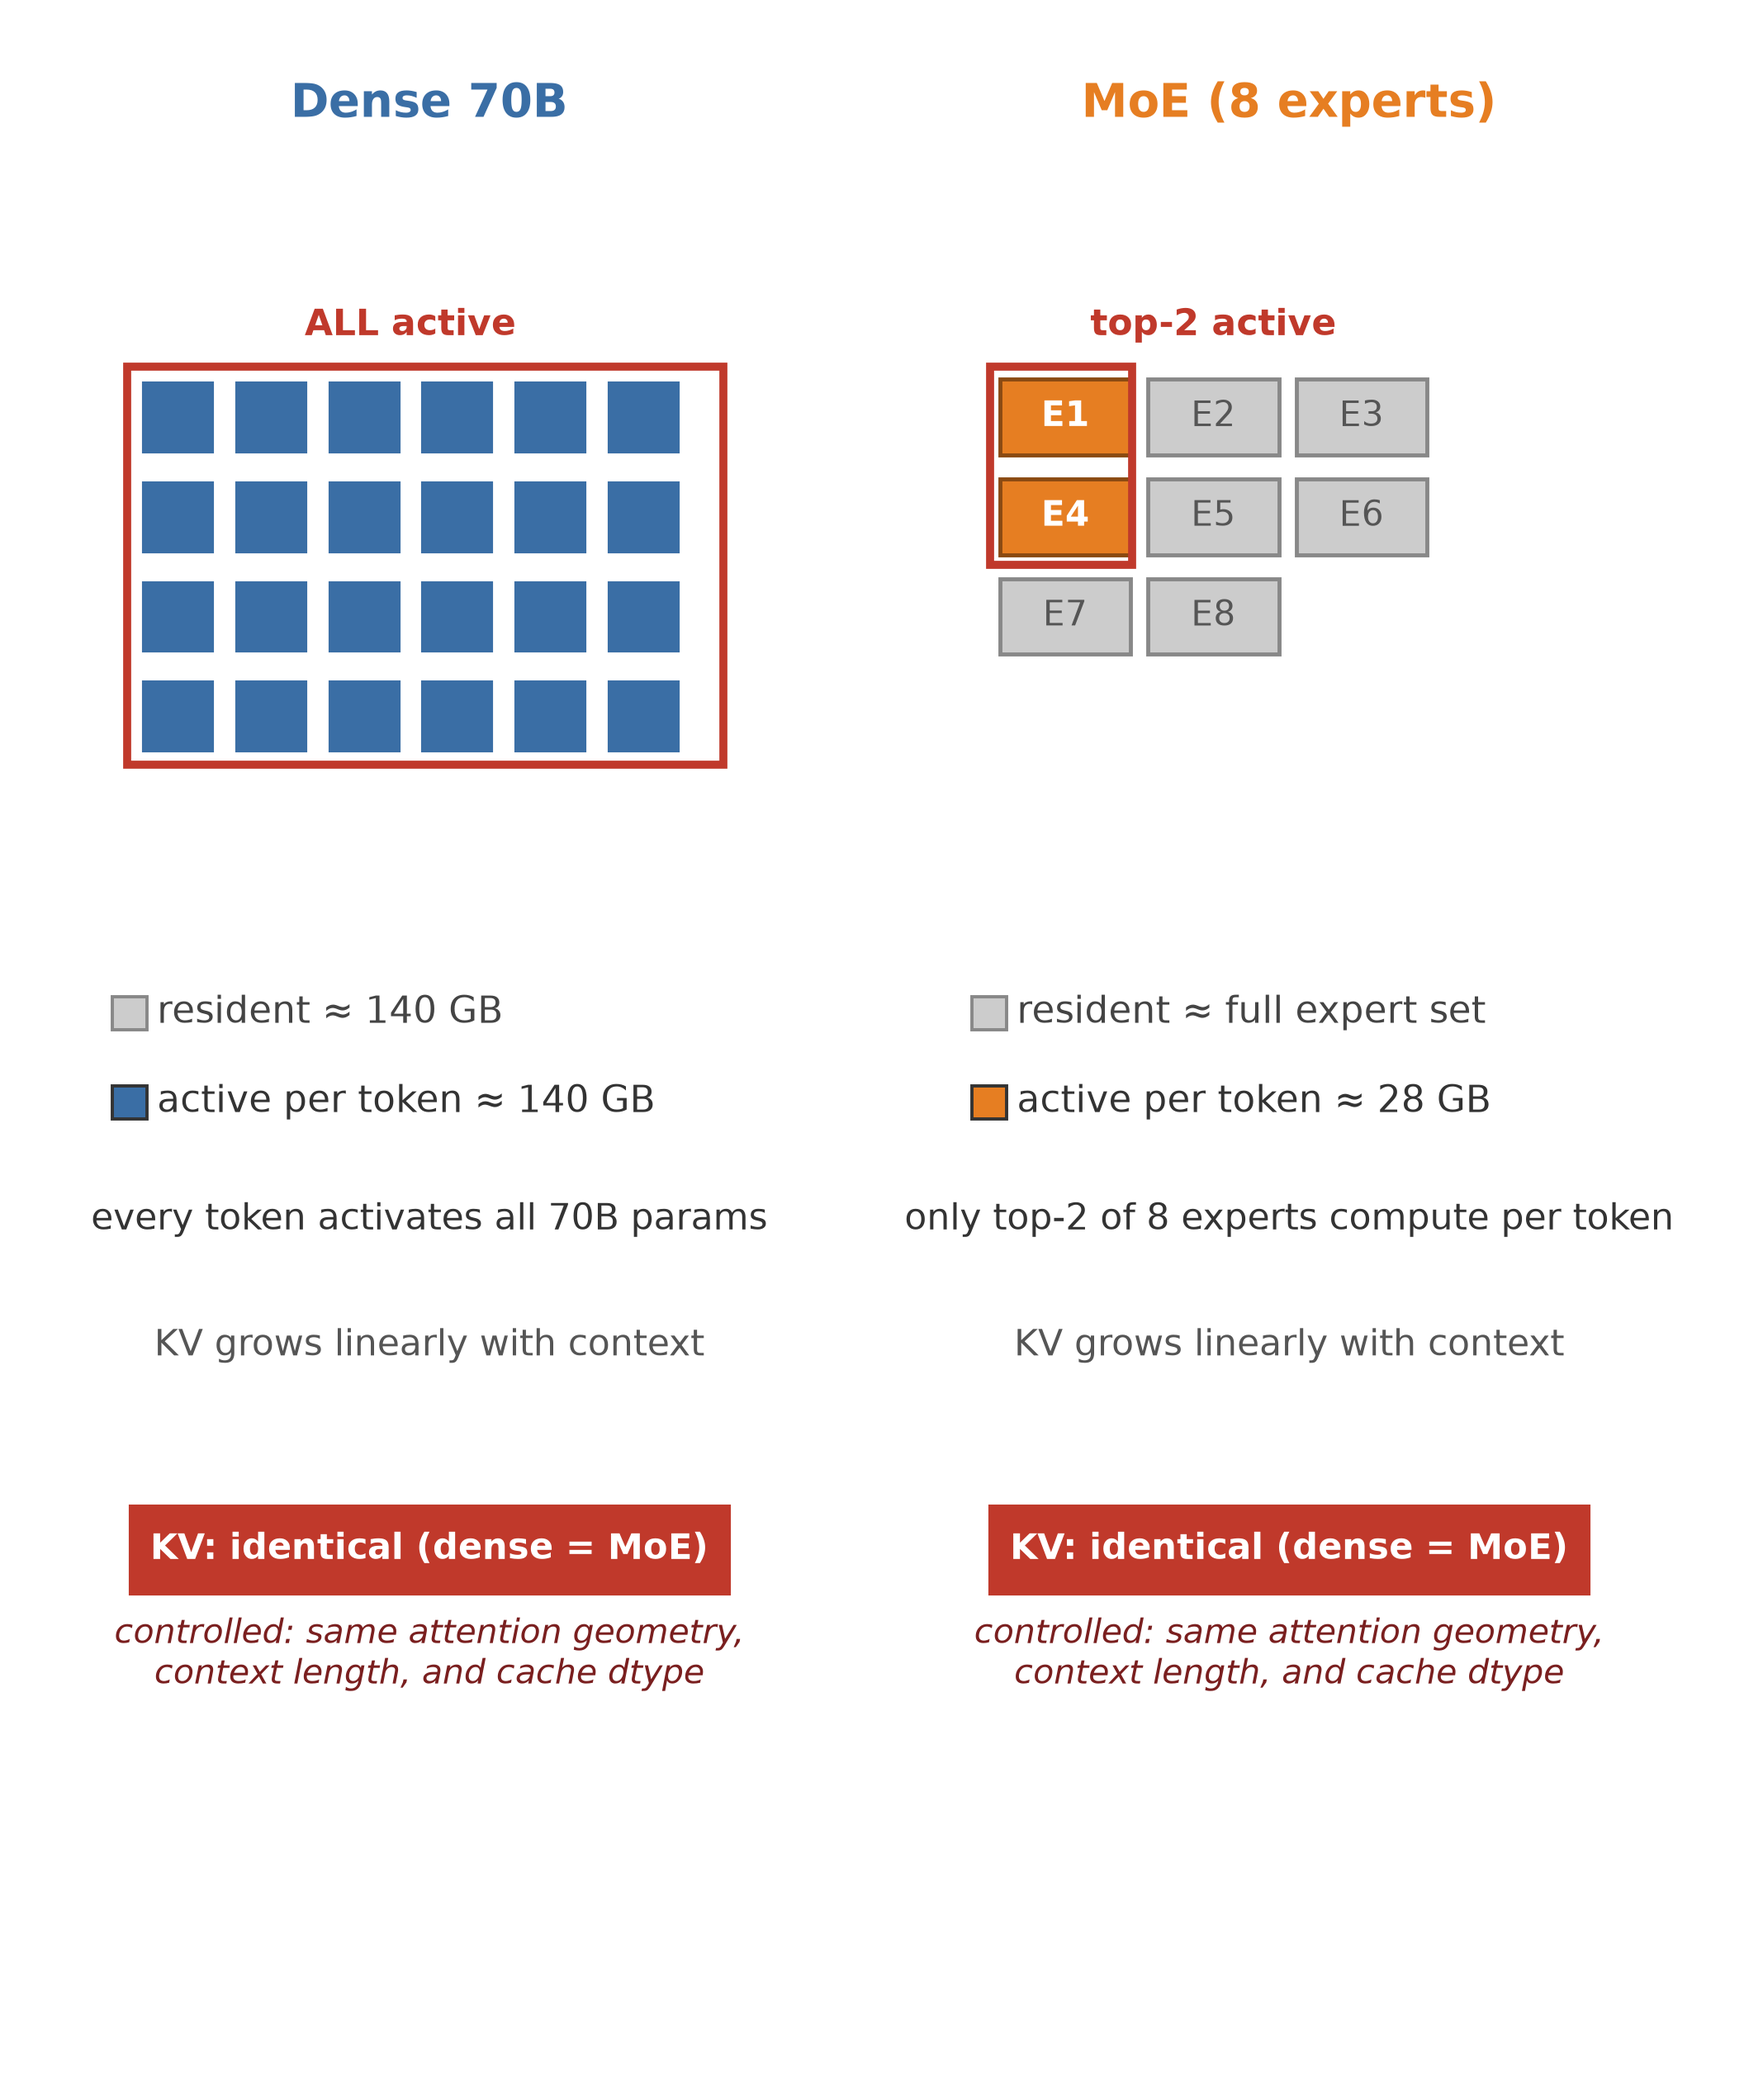
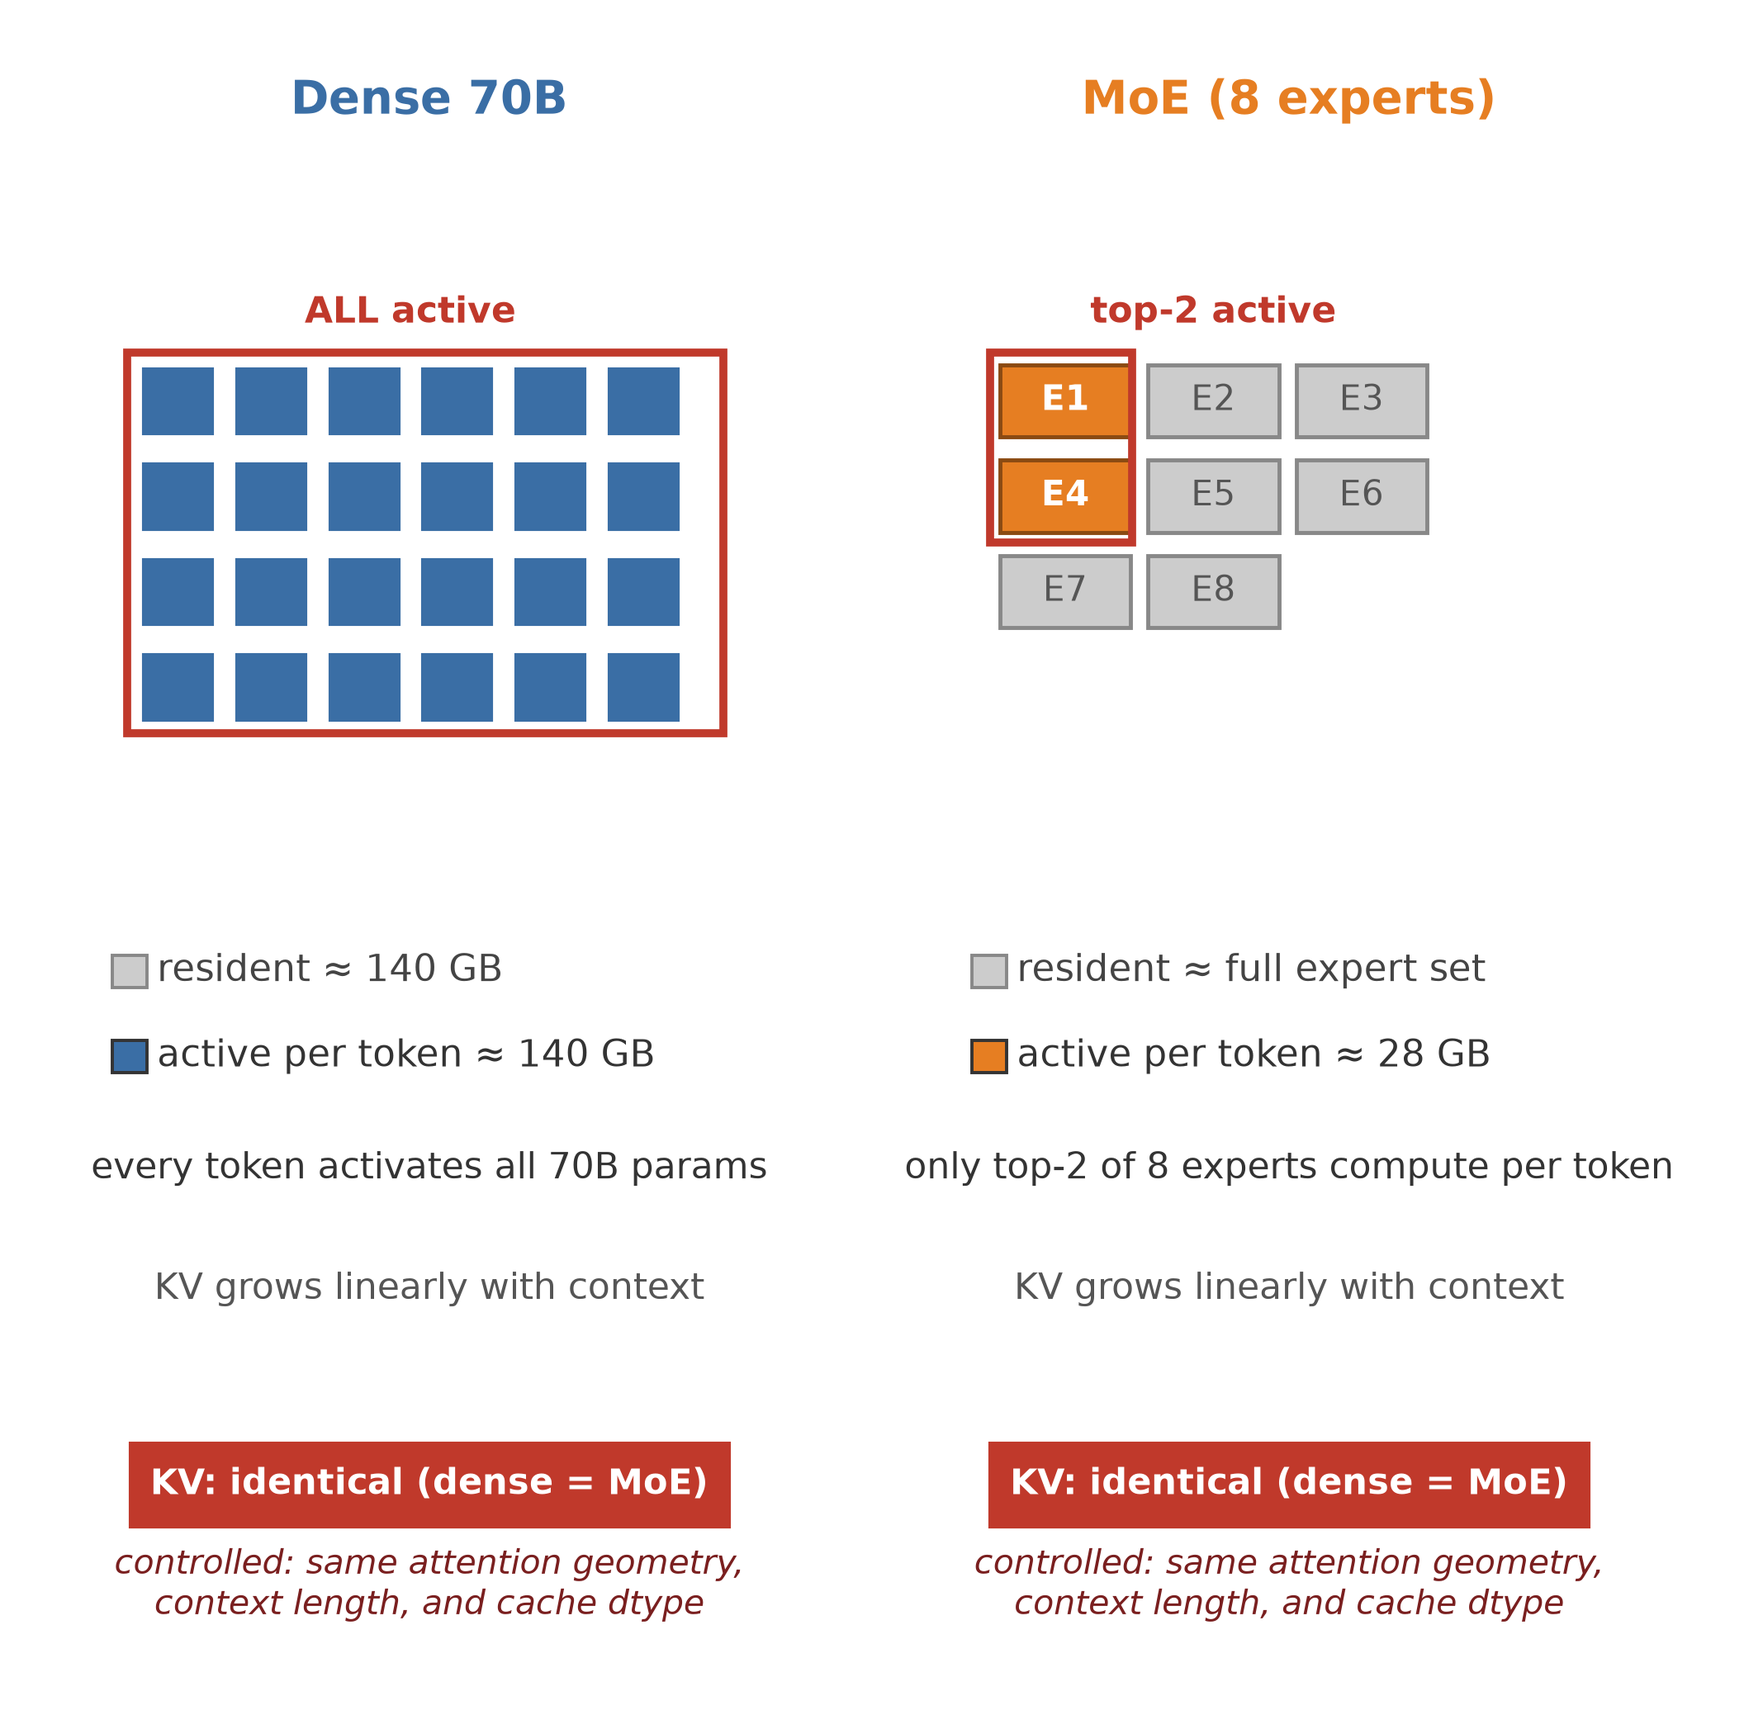
Loop3 figs: Fig 3.1 trim bottom blank band (figsize 7.2->6.0, ylim 0->2.6; blank 97->28pt), titles centered per panel; vision-verified CLEAN, min 8.4pt

diff --git a/render/fig_ch3.py b/render/fig_ch3.py
@@ -12,7 +12,7 @@ from matplotlib.patches import Rectangle
 # height / row pitch), so the grids and the annotation rows register row-for-row.
 # 'resident' vs 'active' is encoded by a consistent fill cue (grey=resident,
 # coloured=active) in BOTH panels, not colour+text on one side only.
-fig, axes = plt.subplots(1, 2, figsize=(6.1, 7.2))
+fig, axes = plt.subplots(1, 2, figsize=(6.1, 6.0))
 fig._hermes_print_sized = True
 
 # ---- shared grid spec: identical in both panels ----
@@ -35,7 +35,7 @@ def cell_top(r):
 
 
 def panel_setup(ax, title, color):
-    ax.set_xlim(0, 10); ax.set_ylim(0, 19); ax.axis('off')
+    ax.set_xlim(0, 10); ax.set_ylim(2.6, 19); ax.axis('off')
     ax.text(5, 18.3, title, fontsize=11.5, fontweight='bold', ha='center', color=color)
 
 
